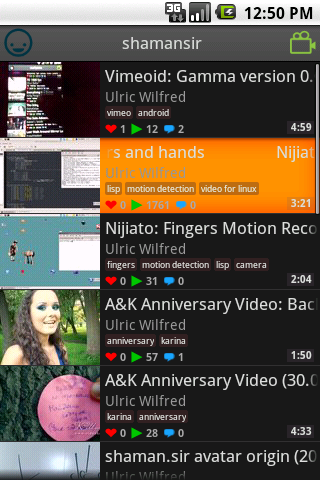
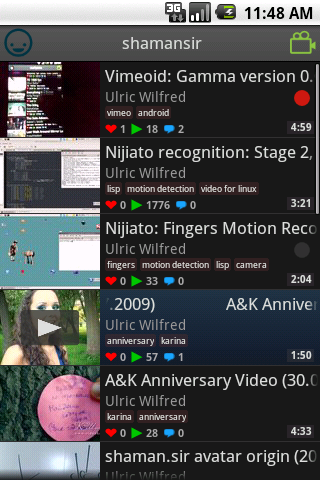
play button show/hide in videos list

diff --git a/apk/src/org/vimeoid/adapter/user/VideosListAdapter.java b/apk/src/org/vimeoid/adapter/user/VideosListAdapter.java
@@ -16,12 +16,17 @@ import org.vimeoid.util.Utils;
 import com.fedorvlasov.lazylist.ImageLoader;
 
 import android.content.Context;
+import android.util.Log;
 import android.view.LayoutInflater;
 import android.view.View;
 import android.view.ViewGroup;
+import android.view.View.OnClickListener;
+import android.widget.AdapterView;
 import android.widget.ImageView;
 import android.widget.LinearLayout;
+import android.widget.ListView;
 import android.widget.TextView;
+import android.widget.AdapterView.OnItemSelectedListener;
 
 /**
  * <dl>
@@ -37,21 +42,29 @@ import android.widget.TextView;
  * @date Sep 29, 2010 8:31:27 PM 
  *
  */
-public class VideosListAdapter extends JsonObjectsAdapter<Video> {
+public class VideosListAdapter extends JsonObjectsAdapter<Video> implements OnItemSelectedListener {
+	
+	public static interface PlayButtonClickedListener {
+		public void playButtonClicked(Video forVideo);
+	}
     
     private final LayoutInflater layoutInflater;
-    private final ImageLoader imageLoader;    
+    private final ImageLoader imageLoader;
     
-    public VideosListAdapter(Context context, LayoutInflater inflater) {
+    private View lastSelected; 
+    private PlayButtonClickedListener playButtonListener;
+    
+    public VideosListAdapter(Context context, LayoutInflater inflater, ListView listView) {
         super(Video.FieldsKeys.MULTIPLE_KEY);
         
         this.layoutInflater = inflater;        
+        this.imageLoader = new ImageLoader(context, R.drawable.thumb_loading_small, R.drawable.video_unknown_item);
         
-        this.imageLoader = new ImageLoader(context, R.drawable.thumb_loading_small, R.drawable.video_unknown_item);        
+        listView.setOnItemSelectedListener(this);
     }
     
     @Override
-    public View getView(int position, View convertView, ViewGroup parent) {
+    public View getView(final int position, View convertView, ViewGroup parent) {
         VideoItemViewHolder itemHolder = null;
         
         final Video video = (Video)getItem(position); 
@@ -62,6 +75,7 @@ public class VideosListAdapter extends JsonObjectsAdapter<Video> {
             itemHolder = new VideoItemViewHolder();
                 
             itemHolder.ivThumb = (ImageView) convertView.findViewById(R.id.videoItemImage);
+            itemHolder.ivPlay = (ImageView) convertView.findViewById(R.id.playVideo);
             itemHolder.tvTitle = (TextView) convertView.findViewById(R.id.videoItemTitle);
             itemHolder.tvAuthor = (TextView) convertView.findViewById(R.id.videoItemAuthor);
             itemHolder.tvDuration = (TextView) convertView.findViewById(R.id.videoItemDuration);
@@ -82,6 +96,23 @@ public class VideosListAdapter extends JsonObjectsAdapter<Video> {
         }
         
         imageLoader.displayImage(video.thumbnails.small.url, itemHolder.ivThumb);
+              
+        itemHolder.ivPlay.setVisibility(View.INVISIBLE);
+        /* itemHolder.ivPlay.setOnFocusChangeListener(new OnFocusChangeListener() {
+			@Override public void onFocusChange(View v, boolean hasFocus) {
+				Log.d("VLA", "Thumb at " + position + " is focused: " + hasFocus);
+				//ivPlay.setVisibility(hasFocus ? View.VISIBLE : View.GONE);
+				ImageView iv = (ImageView)v.findViewById(R.id.playVideo);
+				iv.setVisibility(hasFocus ? View.VISIBLE : View.INVISIBLE);
+			}
+			
+		}); */
+        itemHolder.ivPlay.setOnClickListener(new OnClickListener() {
+			@Override public void onClick(View v) {
+				Log.d("VLA", "Thumb at " + position + " is clicked");
+				if (playButtonListener != null) playButtonListener.playButtonClicked(video);
+			}
+		});
         
         itemHolder.tvTitle.setText(video.title);
         itemHolder.tvAuthor.setText(video.uploaderName);
@@ -101,10 +132,24 @@ public class VideosListAdapter extends JsonObjectsAdapter<Video> {
         return convertView;
     }
     
+	@Override
+	public void onItemSelected(AdapterView<?> parent, View view, int position, long id) {
+		Log.d("VLA", "Thumb at " + position + " is selected");
+		if (lastSelected != null) lastSelected.findViewById(R.id.playVideo).setVisibility(View.INVISIBLE); 
+		view.findViewById(R.id.playVideo).setVisibility(View.VISIBLE);
+		lastSelected = view;
+	}
+
+	@Override
+	public void onNothingSelected(AdapterView<?> parent) {
+		Log.d("VLA", "Nothing selected");
+		if (lastSelected != null) lastSelected.findViewById(R.id.playVideo).setVisibility(View.INVISIBLE);		
+	}    
+    
     protected int[] getRequiredMarkers(Video video) {
-        if (video.isLike && !video.isWatchLater) { int[] result = { R.drawable.like_marker }; return result; };
-        if (!video.isLike && video.isWatchLater) { int[] result = { R.drawable.watchlater_marker }; return result; };
-        if (video.isLike && video.isWatchLater) { int[] result = { R.drawable.like_marker, R.drawable.watchlater_marker }; return result; };
+        if (video.isLike && !video.isWatchLater) { return new int[] { R.drawable.like_marker }; };
+        if (!video.isLike && video.isWatchLater) { return new int[] { R.drawable.watchlater_marker }; };
+        if (video.isLike && video.isWatchLater) { return new int[] { R.drawable.like_marker, R.drawable.watchlater_marker }; };
         return new int[0];
     }
     
@@ -149,9 +194,14 @@ public class VideosListAdapter extends JsonObjectsAdapter<Video> {
         }
     }
     
+    public void setPlayButtonListener(PlayButtonClickedListener listener) {
+    	this.playButtonListener = listener;
+    }
+    
     private class VideoItemViewHolder {
         
         ImageView ivThumb;
+        ImageView ivPlay;
         
         TextView tvTitle;
         TextView tvAuthor;
@@ -163,6 +213,6 @@ public class VideosListAdapter extends JsonObjectsAdapter<Video> {
         TextView tvComments;
         
         ViewGroup vgMarkers;
-    }    
+    }
 
 }

diff --git a/apk/src/org/vimeoid/activity/user/list/VideosActivity.java b/apk/src/org/vimeoid/activity/user/list/VideosActivity.java
@@ -88,7 +88,7 @@ public class VideosActivity extends ItemsListActivity<Video> {
 
     @Override
     protected JsonObjectsAdapter<Video> createAdapter() {
-        return new VideosListAdapter(this, getLayoutInflater());
+        return new VideosListAdapter(this, getLayoutInflater(), getListView());
     }
     
     @Override
